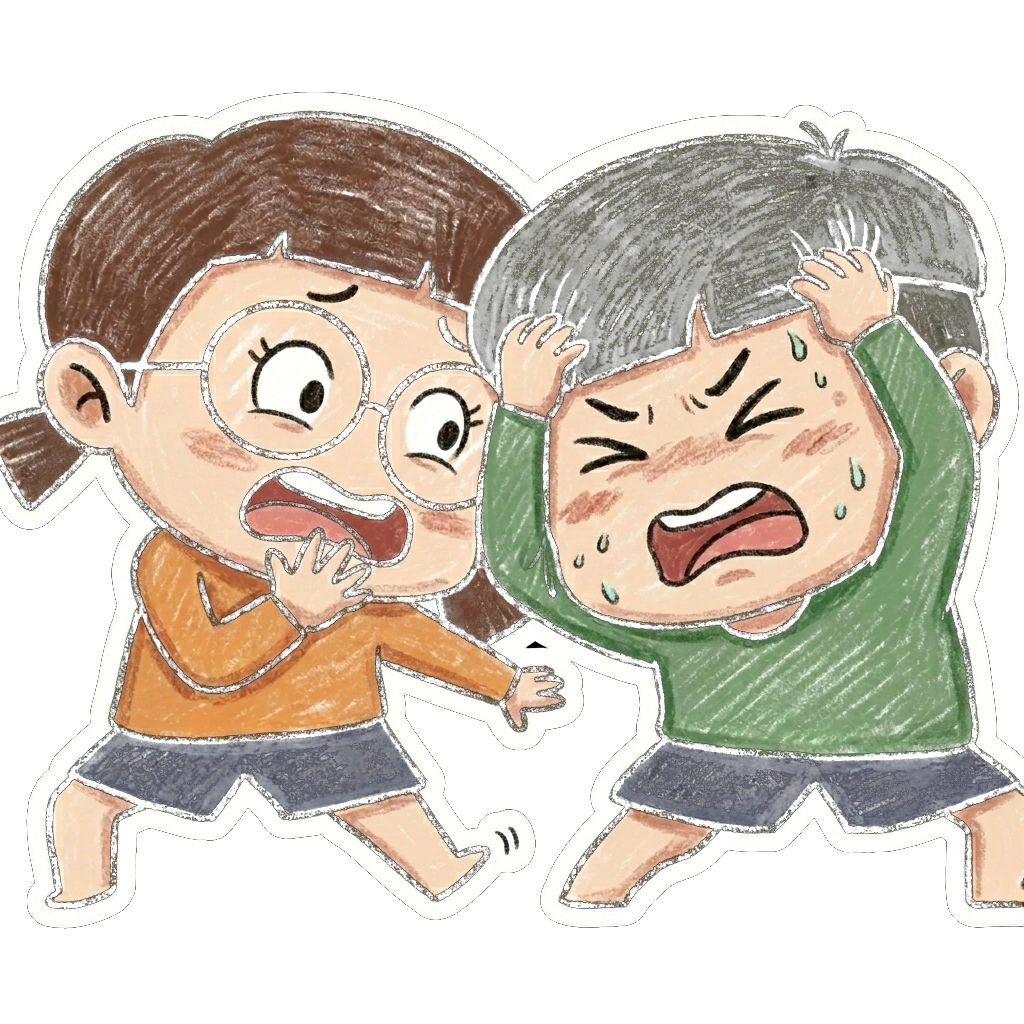
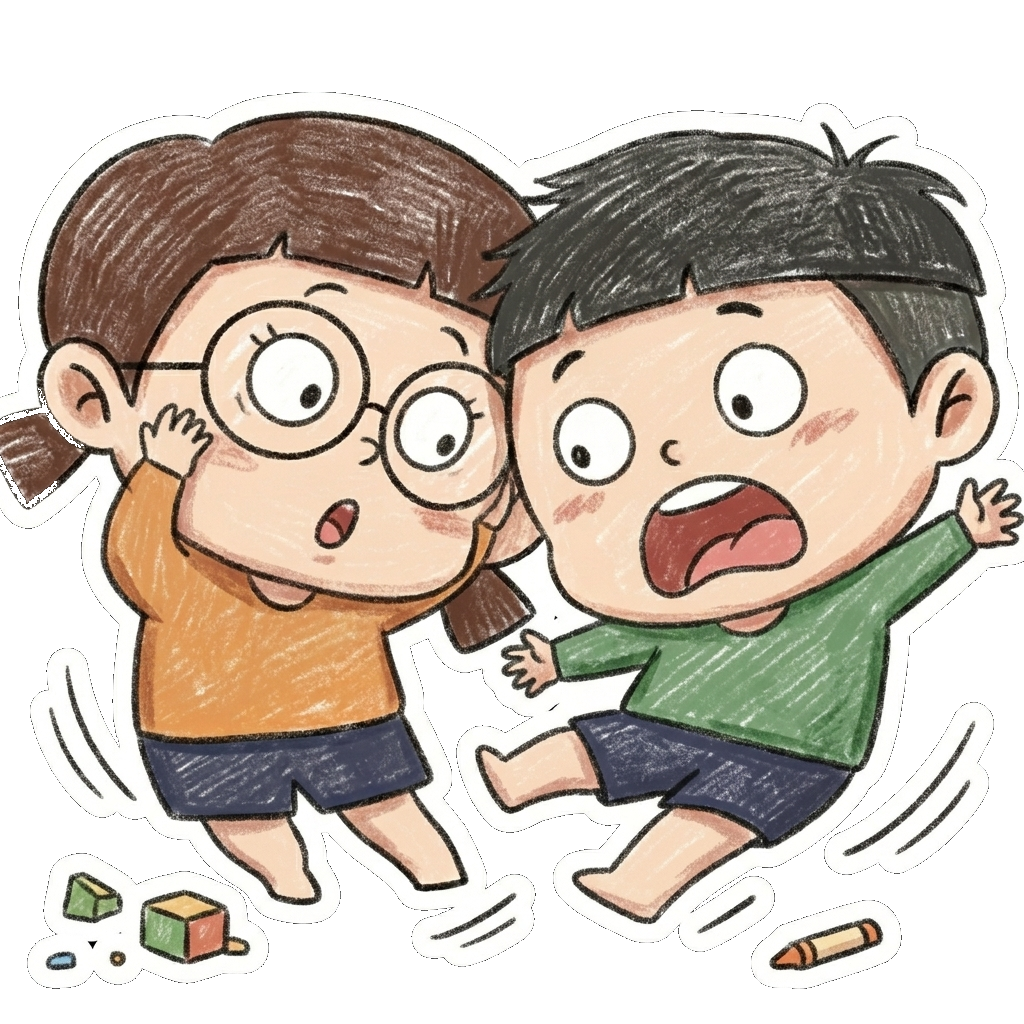
modify

diff --git a/src/App.tsx b/src/App.tsx
@@ -13,6 +13,7 @@ import stage3GamjaanigumaDefeatSceneImage from './assets/stage3-gamjaaniguma-def
 import stage4DefeatSceneImage from './assets/stage4-defeat-scene-cutout.png';
 import stage4BaekgeurigoaDefeatSceneImage from './assets/stage4-baekgeurigoa-defeat-scene-cutout.png';
 import stage5DefeatSceneImage from './assets/stage5-defeat-scene-cutout.png';
+import stage5JurdiDefeatSceneImage from './assets/stage5-jurdi-defeat-scene-cutout.png';
 import stage6DefeatSceneImage from './assets/stage6-defeat-scene-cutout.png';
 import stage6AnheunhanDefeatSceneImage from './assets/stage6-anheunhan-defeat-scene-cutout.png';
 import stage7DefeatSceneImage from './assets/stage7-defeat-scene-cutout.png';
@@ -47,8 +48,11 @@ import opponentLevel4BaekgeurigoaDefaultImage from './assets/opponent-level4-bae
 import opponentLevel4HitImage from './assets/opponent-level4-hit.png';
 import opponentLevel4BaekgeurigoaHitImage from './assets/opponent-level4-baekgeurigoa-hit-cutout.png';
 import opponentLevel5AttackImage from './assets/opponent-level5-attack.png';
+import opponentLevel5JurdiAttackImage from './assets/opponent-level5-jurdi-attack-cutout.png';
 import opponentLevel5DefaultImage from './assets/opponent-level5-default.png';
+import opponentLevel5JurdiDefaultImage from './assets/opponent-level5-jurdi-default-cutout.png';
 import opponentLevel5HitImage from './assets/opponent-level5-hit.png';
+import opponentLevel5JurdiHitImage from './assets/opponent-level5-jurdi-hit-cutout.png';
 import opponentLevel6AttackImage from './assets/opponent-level6-attack.png';
 import opponentLevel6AnheunhanAttackImage from './assets/opponent-level6-anheunhan-attack-cutout.png';
 import opponentLevel6DefaultImage from './assets/opponent-level6-default.png';
@@ -118,6 +122,7 @@ type Level1OpponentId = 'jeongichu' | 'churusigi';
 type Level2OpponentId = 'noneunpenggwin' | 'jjangpal';
 type Level3OpponentId = 'romiromi' | 'gamjaaniguma';
 type Level4OpponentId = 'koronan' | 'baekgeurigoa';
+type Level5OpponentId = 'niiik' | 'jurdi';
 type Level6OpponentId = 'syuppeolboi' | 'anheunhannammae';
 type Level7OpponentId = 'anijeuko' | 'arnya';
 
@@ -132,6 +137,7 @@ interface SpecialOpponentSelections {
   level2: Level2OpponentId;
   level3: Level3OpponentId;
   level4: Level4OpponentId;
+  level5: Level5OpponentId;
   level6: Level6OpponentId;
   level7: Level7OpponentId;
 }
@@ -671,6 +677,7 @@ const DEFAULT_LEVEL1_OPPONENT_ID: Level1OpponentId = 'jeongichu';
 const DEFAULT_LEVEL2_OPPONENT_ID: Level2OpponentId = 'noneunpenggwin';
 const DEFAULT_LEVEL3_OPPONENT_ID: Level3OpponentId = 'romiromi';
 const DEFAULT_LEVEL4_OPPONENT_ID: Level4OpponentId = 'koronan';
+const DEFAULT_LEVEL5_OPPONENT_ID: Level5OpponentId = 'niiik';
 const DEFAULT_LEVEL6_OPPONENT_ID: Level6OpponentId = 'syuppeolboi';
 const DEFAULT_LEVEL7_OPPONENT_ID: Level7OpponentId = 'anijeuko';
 const DEFAULT_SPECIAL_OPPONENT_SELECTIONS: SpecialOpponentSelections = {
@@ -678,6 +685,7 @@ const DEFAULT_SPECIAL_OPPONENT_SELECTIONS: SpecialOpponentSelections = {
   level2: DEFAULT_LEVEL2_OPPONENT_ID,
   level3: DEFAULT_LEVEL3_OPPONENT_ID,
   level4: DEFAULT_LEVEL4_OPPONENT_ID,
+  level5: DEFAULT_LEVEL5_OPPONENT_ID,
   level6: DEFAULT_LEVEL6_OPPONENT_ID,
   level7: DEFAULT_LEVEL7_OPPONENT_ID,
 };
@@ -759,6 +767,26 @@ const LEVEL4_OPPONENT_VARIANTS: Record<Level4OpponentId, SpecialOpponentConfig> 
       hit: opponentLevel4BaekgeurigoaHitImage,
     },
     defeatSceneImage: stage4BaekgeurigoaDefeatSceneImage,
+  },
+};
+const LEVEL5_OPPONENT_VARIANTS: Record<Level5OpponentId, SpecialOpponentConfig> = {
+  niiik: {
+    name: '니이익',
+    spriteSet: {
+      attack: opponentLevel5AttackImage,
+      default: opponentLevel5DefaultImage,
+      hit: opponentLevel5HitImage,
+    },
+    defeatSceneImage: stage5DefeatSceneImage,
+  },
+  jurdi: {
+    name: '주르디',
+    spriteSet: {
+      attack: opponentLevel5JurdiAttackImage,
+      default: opponentLevel5JurdiDefaultImage,
+      hit: opponentLevel5JurdiHitImage,
+    },
+    defeatSceneImage: stage5JurdiDefeatSceneImage,
   },
 };
 const LEVEL6_OPPONENT_VARIANTS: Record<Level6OpponentId, SpecialOpponentConfig> = {
@@ -928,7 +956,9 @@ const ESTIMATION_MIN_ANSWER = 100;
 const ESTIMATION_MAX_ANSWER = 900;
 const ESTIMATION_MAX_RAW_ANSWER = ESTIMATION_MAX_ANSWER + ESTIMATION_ROUNDING_UNIT / 2 - 1;
 const ESTIMATION_PROMPT = '각 수를 백의 자리까지 반올림해서 계산해 보세요.';
-const ESTIMATION_OPERAND_OFFSET_LIMIT = 20;
+const ESTIMATION_BOUNDARY_RANGE_MIN = 40;
+const ESTIMATION_BOUNDARY_RANGE_MAX = 60;
+const ESTIMATION_MIN_DISTANCE_FROM_ANCHOR = 15;
 const ESTIMATION_MAX_GENERATION_ATTEMPTS = 300;
 
 function pickSpecialOpponentSelections(): SpecialOpponentSelections {
@@ -937,6 +967,7 @@ function pickSpecialOpponentSelections(): SpecialOpponentSelections {
     level2: Math.random() < 0.5 ? DEFAULT_LEVEL2_OPPONENT_ID : 'jjangpal',
     level3: Math.random() < 0.5 ? DEFAULT_LEVEL3_OPPONENT_ID : 'gamjaaniguma',
     level4: Math.random() < 0.5 ? DEFAULT_LEVEL4_OPPONENT_ID : 'baekgeurigoa',
+    level5: Math.random() < 0.5 ? DEFAULT_LEVEL5_OPPONENT_ID : 'jurdi',
     level6: Math.random() < 0.5 ? DEFAULT_LEVEL6_OPPONENT_ID : 'anheunhannammae',
     level7: Math.random() < 0.5 ? DEFAULT_LEVEL7_OPPONENT_ID : 'arnya',
   };
@@ -957,6 +988,10 @@ function getSpecialOpponentConfig(level: number, selections: SpecialOpponentSele
 
   if (level === 4) {
     return LEVEL4_OPPONENT_VARIANTS[selections.level4] ?? LEVEL4_OPPONENT_VARIANTS[DEFAULT_LEVEL4_OPPONENT_ID];
+  }
+
+  if (level === 5) {
+    return LEVEL5_OPPONENT_VARIANTS[selections.level5] ?? LEVEL5_OPPONENT_VARIANTS[DEFAULT_LEVEL5_OPPONENT_ID];
   }
 
   if (level === 6) {
@@ -1633,7 +1668,7 @@ function evaluateBuilderProblem(problem: Problem, slotValues: Record<string, str
     const value = slotValues[slot.id];
 
     if (!value) {
-      return { status: 'incomplete' as const, message: '빈칸에 숫자를 먼저 넣어 문제를 완성해 주세요.' };
+      return { status: 'incomplete' as const, message: '빈칸에 숫자를 넣어주세요.' };
     }
 
     if (!slot.digits.includes(value)) {
@@ -1801,9 +1836,32 @@ function createEstimationChoices(answer: number) {
 }
 
 function createEstimationOperand(anchor: number) {
-  const minOffset = Math.max(-ESTIMATION_OPERAND_OFFSET_LIMIT, ESTIMATION_MIN_ANSWER - anchor);
-  const maxOffset = Math.min(ESTIMATION_OPERAND_OFFSET_LIMIT, 999 - anchor);
-  return anchor + randomIntInRange(minOffset, maxOffset);
+  const minValue = Math.max(ESTIMATION_MIN_ANSWER, anchor - ESTIMATION_ROUNDING_UNIT / 2 + 1);
+  const maxValue = Math.min(999, anchor + ESTIMATION_ROUNDING_UNIT / 2 - 1);
+  const candidates: number[] = [];
+
+  for (let value = minValue; value <= maxValue; value += 1) {
+    const lastTwoDigits = value % ESTIMATION_ROUNDING_UNIT;
+    if (lastTwoDigits >= ESTIMATION_BOUNDARY_RANGE_MIN && lastTwoDigits <= ESTIMATION_BOUNDARY_RANGE_MAX) {
+      continue;
+    }
+
+    if (Math.abs(value - anchor) < ESTIMATION_MIN_DISTANCE_FROM_ANCHOR) {
+      continue;
+    }
+
+    if (roundToNearestUnit(value, ESTIMATION_ROUNDING_UNIT) !== anchor) {
+      continue;
+    }
+
+    candidates.push(value);
+  }
+
+  if (candidates.length === 0) {
+    return anchor;
+  }
+
+  return candidates[randomIntInRange(0, candidates.length - 1)];
 }
 
 function createEstimationProblem(): EstimationProblem {
@@ -2079,6 +2137,13 @@ export default function App() {
         ? builderEvaluation.text
         : null
       : problem.text;
+  const normalizedInputValue = inputValue.trim();
+  const parsedInputAnswer = Number.parseInt(normalizedInputValue, 10);
+  const hasValidAnswerInput = normalizedInputValue.length > 0 && !Number.isNaN(parsedInputAnswer);
+  const canAttemptAttack =
+    problem.kind === 'builder'
+      ? hasValidAnswerInput && builderEvaluation?.status === 'ready'
+      : hasValidAnswerInput;
 
   useEffect(() => {
     setShowHint(isHintForced);
@@ -2323,16 +2388,22 @@ export default function App() {
   };
 
   const checkAnswer = () => {
-    let isCorrect = parseInt(inputValue, 10) === problem.answer;
+    if (!hasValidAnswerInput) {
+      playSound('ui');
+      updateMessage('정답을 입력해야 공격할 수 있어!');
+      return;
+    }
+
+    let isCorrect = parsedInputAnswer === problem.answer;
 
     if (problem.kind === 'builder') {
       if (!builderEvaluation || builderEvaluation.status === 'incomplete' || builderEvaluation.status === 'invalid') {
         playSound('ui');
-        updateMessage(builderEvaluation?.message ?? '빈칸에 숫자를 먼저 넣어 문제를 완성해 주세요.');
+        updateMessage(builderEvaluation?.message ?? '빈칸에 숫자를 넣어주세요.');
         return;
       }
 
-      isCorrect = parseInt(inputValue, 10) === builderEvaluation.answer;
+      isCorrect = parsedInputAnswer === builderEvaluation.answer;
     }
 
     playSound('submit', {
@@ -2928,11 +2999,27 @@ export default function App() {
                   inputMode="numeric"
                   value={inputValue} 
                   onChange={e => setInputValue(e.target.value)} 
-                  onKeyDown={e => { if (e.key === 'Enter' && !e.ctrlKey && !e.altKey) checkAnswer(); }}
+                  onKeyDown={e => {
+                    if (e.key === 'Enter' && !e.ctrlKey && !e.altKey) {
+                      e.preventDefault();
+                      checkAnswer();
+                    }
+                  }}
                   className="min-w-0 rounded-2xl border-4 border-slate-500 bg-slate-700 px-4 py-3 text-center text-2xl font-black outline-none focus:border-emerald-500 sm:text-3xl" 
                   placeholder={problem.kind === 'builder' ? '답' : '정답 입력'} 
                 />
-                  <button onClick={checkAnswer} className="flex w-full min-w-0 items-center justify-center gap-2 rounded-2xl bg-emerald-600 px-6 py-3 text-lg font-black text-white shadow-lg hover:bg-emerald-500 sm:min-w-[170px] sm:w-auto sm:text-xl"><Sword size={22} /> 공격!</button>
+                  <button
+                    type="button"
+                    disabled={!canAttemptAttack}
+                    onClick={checkAnswer}
+                    className={`flex w-full min-w-0 items-center justify-center gap-2 rounded-2xl px-6 py-3 text-lg font-black text-white shadow-lg sm:min-w-[170px] sm:w-auto sm:text-xl ${
+                      canAttemptAttack
+                        ? 'bg-emerald-600 hover:bg-emerald-500'
+                        : 'cursor-not-allowed bg-slate-500 opacity-60'
+                    }`}
+                  >
+                    <Sword size={22} /> 공격!
+                  </button>
                 </div>
               </div>
             )}
